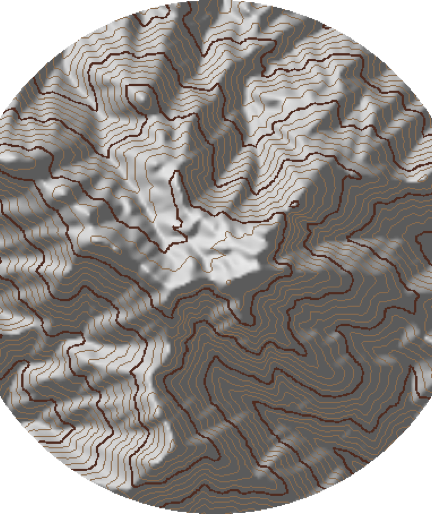
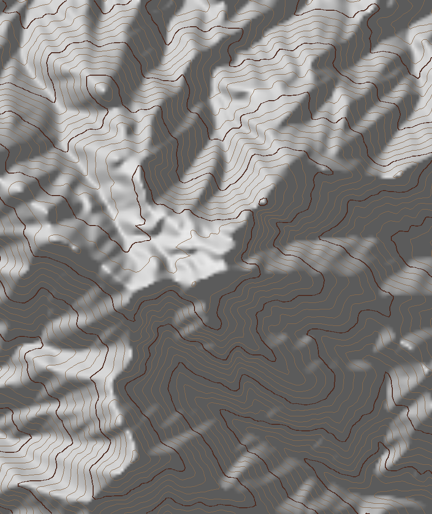
Add native background and symbol font test

diff --git a/bipmax-contours/watchface/index.js b/bipmax-contours/watchface/index.js
@@ -34,9 +34,11 @@ const CSPLIT    = 208 + TIME_XOFF  // colon center: HH right-aligns here, :MM le
 const TIME_FT   = 'raw/anton.ttf'
 
 // Other layout
-const STEPS_X = 30
-const STEPS_Y = 44
-const STEPS_H = 34
+const STEPS_X    = 30
+const STEPS_Y    = 44
+const STEPS_FONT = 42          // bumped up from 30
+const STEPS_H    = 46
+const STEPS_GAP  = 44          // x gap from "S" to the number (scales with font)
 const CIRC_X  = DW - 84
 const CIRC_Y  = 92
 const CIRC_R  = 54
@@ -103,14 +105,14 @@ WatchFace({
 
     // --- STEPS (diagnostic white for now) --------------------------------
     createWidget(widget.TEXT, {
-      x: STEPS_X, y: STEPS_Y, w: 28, h: STEPS_H,
-      color: ORANGE, text_size: 30,
+      x: STEPS_X, y: STEPS_Y, w: 40, h: STEPS_H,
+      color: ORANGE, text_size: STEPS_FONT,
       align_h: align.LEFT, align_v: align.CENTER_V,
       text_style: text_style.NONE, text: 'S',
     })
     const stepsText = createWidget(widget.TEXT, {
-      x: STEPS_X + 34, y: STEPS_Y, w: 240, h: STEPS_H,
-      color: WHITE, text_size: 30,
+      x: STEPS_X + STEPS_GAP, y: STEPS_Y, w: 260, h: STEPS_H,
+      color: WHITE, text_size: STEPS_FONT,
       align_h: align.LEFT, align_v: align.CENTER_V,
       text_style: text_style.NONE, text: '0',
     })
@@ -142,6 +144,23 @@ WatchFace({
       drawBatt()
       try { battery.onChange(drawBatt) } catch (e) {}
     } catch (e) {}
+
+    // --- WEATHER (TEST: static, verify the Nerd Font symbols render) ------
+    // Icon uses the symbols font; temp uses the normal font (symbols font has
+    // no digits/°). If the icon shows a sun and "72°" shows, the font works and
+    // we wire live weather data next. Remove/replace once confirmed.
+    createWidget(widget.TEXT, {
+      x: 148, y: 40, w: 56, h: 50,
+      color: ORANGE, text_size: 44, font: 'raw/symbols.ttf',
+      align_h: align.CENTER_H, align_v: align.CENTER_V,
+      text_style: text_style.NONE, text: '\ue30d',   // nf-weather-day_sunny
+    })
+    createWidget(widget.TEXT, {
+      x: 206, y: 40, w: 90, h: 50,
+      color: WHITE, text_size: 40,
+      align_h: align.LEFT, align_v: align.CENTER_V,
+      text_style: text_style.NONE, text: '72°',
+    })
   },
 
   onInit() {},

diff --git a/NOTES.md b/NOTES.md
@@ -22,9 +22,9 @@ watchface only.
 folder: `assets/432x514-amazfit-bip-max/`.
 
 **Working on the real watch (verified via `zeus preview`):**
-- ✅ **Background** — reused Garmin `shaded` dark contour art, reshaped to
-  432×514, full-bleed (`widget.IMG`). *(Known issue: rounded top/bottom from the
-  round source — fix = Python re-render, §9.1.)*
+- ✅ **Background** — **natively re-rendered** at 432×514 via Python (no circle
+  mask), full-bleed (`widget.IMG`). Sharp edge-to-edge terrain, no rounded
+  edges. Mt. Wilson center. (Command + method in §9.1.)
 - ✅ **Time** — big, bold, orange `HH` : white `:MM`. Custom **Anton** font
   (`raw/anton.ttf`), ~210px, single draw. `@zos/sensor` `Time` +
   `setInterval` tick. Position tuned via `TIME_XOFF`.
@@ -519,43 +519,130 @@ for public distribution and is optional here.
 
 Not for v1 — captured so we don't lose them.
 
-### 9.1 Fix the background shape (round-art → true square/rectangle fill)
+### 9.1 Fix the background shape (round-art → rectangle) — ✅ DONE
 
-The current background reuses the Garmin **round** art. We squared off the left
-and right sides, but the **top and bottom are still the rounded contour edges**
-of the original circular face, so the terrain looks like it has a rounded top —
-it reads funny on the flat rectangular Bip Max screen.
+**Problem:** the original background reused the Garmin **circle-masked** round art
+(454²). Reshaping it left a **rounded top/bottom** (the curved edge of the masked
+circle) that looked wrong on the flat rectangular screen. Zoom/crop couldn't fix
+it without ~1.5× upscaling (blurry) and losing terrain.
 
-Fix (still no Python re-render needed): **zoom in / scale up the source art so it
-fully covers the 432×514 frame**, pushing the rounded top/bottom edges off-screen
-so only solid terrain fills the rectangle. In practice: scale the 454² source up
-past 514 (e.g. to ~560–600px) and center-crop to 432×514, trading a little more
-edge terrain for a clean full-bleed fill with no rounded corners.
+**Fix (done):** natively **re-rendered** with `render_shaded_contours.py`. The
+script is square-only (`--size`), so we render a full square **without**
+`--circle-mask` (fully packed terrain, no rounded edges) at 2× supersample, then
+downscale + center-crop to 432×514 — sharp, no upscaling.
 
-Rough approach to try (tune the scale until the rounded edges are gone):
+Exact commands used (macOS, from the Garmin repo):
 
 ```bash
-SRC=/Users/jtorres/Workspaces/pnb/garmin/garmin-simple-watchface-contours/resources/drawables
-cp "$SRC/contour_background_dark_30px_west.png" watchface/assets/contour_background.png
-sips -Z 580 watchface/assets/contour_background.png     # zoom in (was 514)
-sips -c 514 432 watchface/assets/contour_background.png # center-crop to 432×514
+cd /Users/jtorres/Workspaces/pnb/garmin/garmin-simple-watchface-contours
+# one-time: the .venv existed but was empty
+.venv/bin/python -m pip install requests tifffile matplotlib numpy scipy scikit-image
+
+# render a full non-masked square (dark recipe, Mt. Wilson center), 2× supersample
+.venv/bin/python render_shaded_contours.py \
+  --size 1028 \
+  --center-lat 34.2257 --center-lon -118.0572 \
+  --sun-azimuth 135 --sun-altitude 40 \
+  --hillshade-min 95 --hillshade-max 225 --gamma 0.8 --contrast 1.1 \
+  --contour-source dem --contour-smoothing 0.8 --contour-interval-feet 100 \
+  --out preview/contour_bipmax_432x514_src.png
+# NOTE: no --circle-mask (that flag is what caused the rounded edges)
+
+# downscale + crop to exactly 432×514, keep a dimension-named artifact
+cp preview/contour_bipmax_432x514_src.png preview/contour_bipmax_432x514.png
+sips -Z 514 preview/contour_bipmax_432x514.png      # 1028² -> 514²
+sips -c 514 432 preview/contour_bipmax_432x514.png  # crop to 514h x 432w
+
+# install into the watchface
+cp preview/contour_bipmax_432x514.png \
+   ../../zepp-apps/watchface/bipmax-contours/assets/432x514-amazfit-bip-max/contour_background.png
 ```
 
-**DECISION (from on-device testing): re-render via Python instead.** The reshape
-approach left a **rounded top/bottom** (leftover from the round Garmin art) that
-looks wrong on the flat rectangular screen. The chosen fix is to run the Python
-renderer through a **venv** and output a **native 432×514 rectangle** with no
-`--circle-mask` — a true flat-edged background. See §4b for the venv setup and
-render commands; goal size is exactly **432 × 514**, no crop, no rounded corners.
+Center = **Mt. Wilson** (Angeles Crest / San Gabriel range), lat `34.2257`, lon
+`-118.0572` (true center; dropped the old `-118.05945` 30px-west composition
+tweak). To retune later: `--radius`/`--zoom` = how much area shows;
+`--hillshade-min/max`, `--gamma`, `--contrast` = darkness/relief; there's also a
+lighter recipe (`--hillshade-min 190 --hillshade-max 255 --gamma 0.65
+--contrast 0.9`).
 
-### 9.2 Weather widget
+### 9.2 Weather widget  (NEXT UP)
 
-Add a weather readout (temp + condition icon, maybe hi/lo). Zepp exposes weather
-via the sensor API (`@zos/sensor` weather / the app-side data channel), which may
-require a `permissions` entry in `app.json` and possibly an app-side script to
-fetch/forward data. Decide placement then (candidate: a second small circle or a
-row opposite the day/date circle). Confirm the exact weather API + permission for
-the Bip Max's Zepp OS version when we build it.
+Add a weather readout: **condition symbol + temperature** (maybe hi/lo).
+
+**Symbols via a Nerd Font (font BUNDLED).** Using **Symbols Nerd Font** (Symbols
+only). `SymbolsNerdFont-Regular.ttf` is bundled at
+`assets/432x514-amazfit-bip-max/raw/symbols.ttf` (~2.4 MB). Use it on a TEXT
+widget via `font: 'raw/symbols.ttf'` with the glyph as a `\uXXXX` escape in
+`text`. IMPORTANT: this font has **no digits/letters/°**, so temperature numbers
+must use a normal font (system or Anton) — only the *icon* uses the symbols font.
+
+**Confirmed weather glyph codepoints** (verified present in the font's cmap; all
+228 `nf-weather-*` glyphs exist, range U+E300–U+E3E3):
+
+In code, use the `\uXXXX` escape. Codepoints:
+
+| condition | code | glyph name |
+|---|---|---|
+| clear / sunny (day) | `\ue30d` | weather-day_sunny |
+| clear (night) | `\ue32b` | weather-night_clear |
+| cloudy | `\ue312` | weather-cloudy |
+| partly cloudy (day) | `\ue302` | weather-day_cloudy |
+| partly cloudy (night) | `\ue37e` | weather-night_alt_cloudy |
+| rain | `\ue318` | weather-rain |
+| showers | `\ue319` | weather-showers |
+| snow | `\ue31a` | weather-snow |
+| thunderstorm | `\ue31d` | weather-thunderstorm |
+| fog | `\ue313` | weather-fog |
+| windy | `\ue31e` | weather-windy |
+| thermometer | `\ue350` | weather-thermometer |
+| degrees | `\ue33e` | weather-degrees |
+| celsius / fahrenheit | `\ue339` / `\ue341` | weather-celsius / fahrenheit |
+
+**On-device render: CONFIRMED (works).** The static sun + `72°` test rendered
+correctly on the real Bip Max — the Symbols Nerd Font works via
+`font: 'raw/symbols.ttf'`. (Test block still in `index.js`; remove it when the
+real weather widget lands.)
+
+**Escape caveat (BMP vs supplementary):** JS `'\uXXXX'` only covers codepoints
+<= U+FFFF. Many Material-Design Nerd glyphs live ABOVE U+FFFF (e.g. `md-*` at
+U+F0xxx/U+F1xxx) and need the ES6 form `'\u{f0dfa}'` or
+`String.fromCodePoint(0xf0dfa)`. The weather glyphs (U+E3xx) are all BMP, so
+plain `'\uXXXX'` is fine for them.
+
+**Weather DATA source (still to confirm):** likely `@zos/sensor` Weather (a
+`getForecast`/current API) — will need the weather **permission** in `app.json`
+(candidate string form `data:user.hd.*` / a weather-specific one; confirm from
+docs/samples) and possibly an app-side script to fetch/forward. Confirm the exact
+API + permission for the Bip Max's Zepp OS version when we build it.
+
+Placement candidate: a row opposite the day/date circle, or bottom near battery.
+
+### 9.5 Reusable symbol font
+
+The Nerd Font symbols `.ttf` (`raw/symbols.ttf`, §9.2, render CONFIRMED) is
+reusable for any icon-as-text need — cleaner than PNG icons and single-draw.
+Document the exact glyph codepoints we use as we add them.
+
+### 9.6 Steps icon — hiking boot / shoe prints (replace the "S")
+
+User wants the steps "S" replaced with a **hiking boot** or **shoe prints** glyph
+from the symbols font. Candidates found in the font's cmap:
+
+| glyph name | code | notes |
+|---|---|---|
+| `fa-shoe_prints` | `\uee14` | **two shoe prints — recommended** (BMP, simple escape) |
+| `fae-footprint` | `\ue241` | single footprint (BMP) |
+| `fa-person_hiking` | `\uef02` | hiking *figure* w/ pack (BMP) |
+| `md-shoe_print` | `\u{f0dfa}` | single shoe print (supplementary → needs `\u{}`) |
+| `md-foot_print` | `\u{f0f52}` | footprints (supplementary) |
+| `md-hiking` | `\u{f0d7f}` | hiking figure (supplementary) |
+| `md-shoe_sneaker` | `\u{f15c8}` | closest to a "boot" (supplementary) |
+
+No literal *hiking boot* glyph exists in this set. **Recommendation:**
+`fa-shoe_prints` (`\uee14`) for a clean two-print steps icon — it's BMP so no
+`\u{}` gymnastics. Swap the orange "S" TEXT for a `font:'raw/symbols.ttf'` TEXT
+with that glyph; keep the count beside it. Mind the §9.2 BMP-vs-supplementary
+escape caveat if we pick an `md-*` option instead.
 
 ### 9.3 Battery visual + time-remaining
 